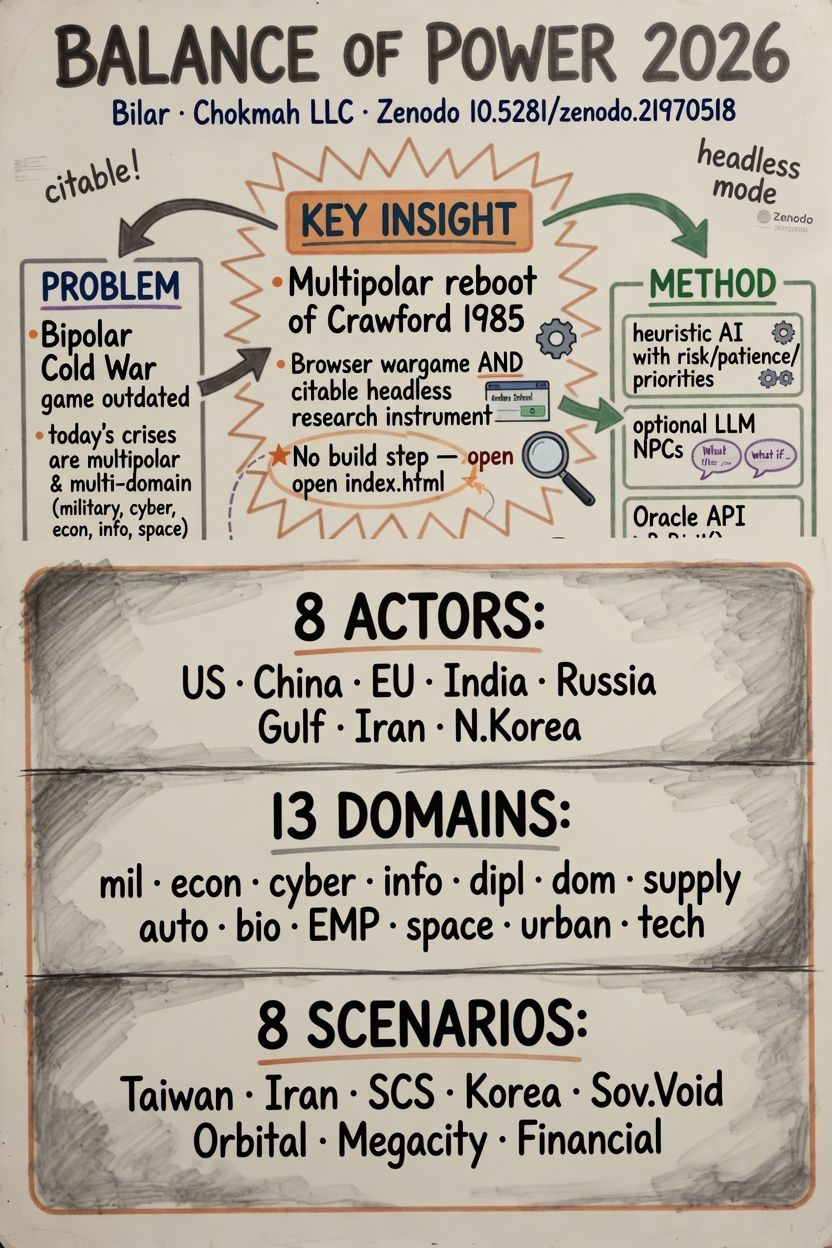
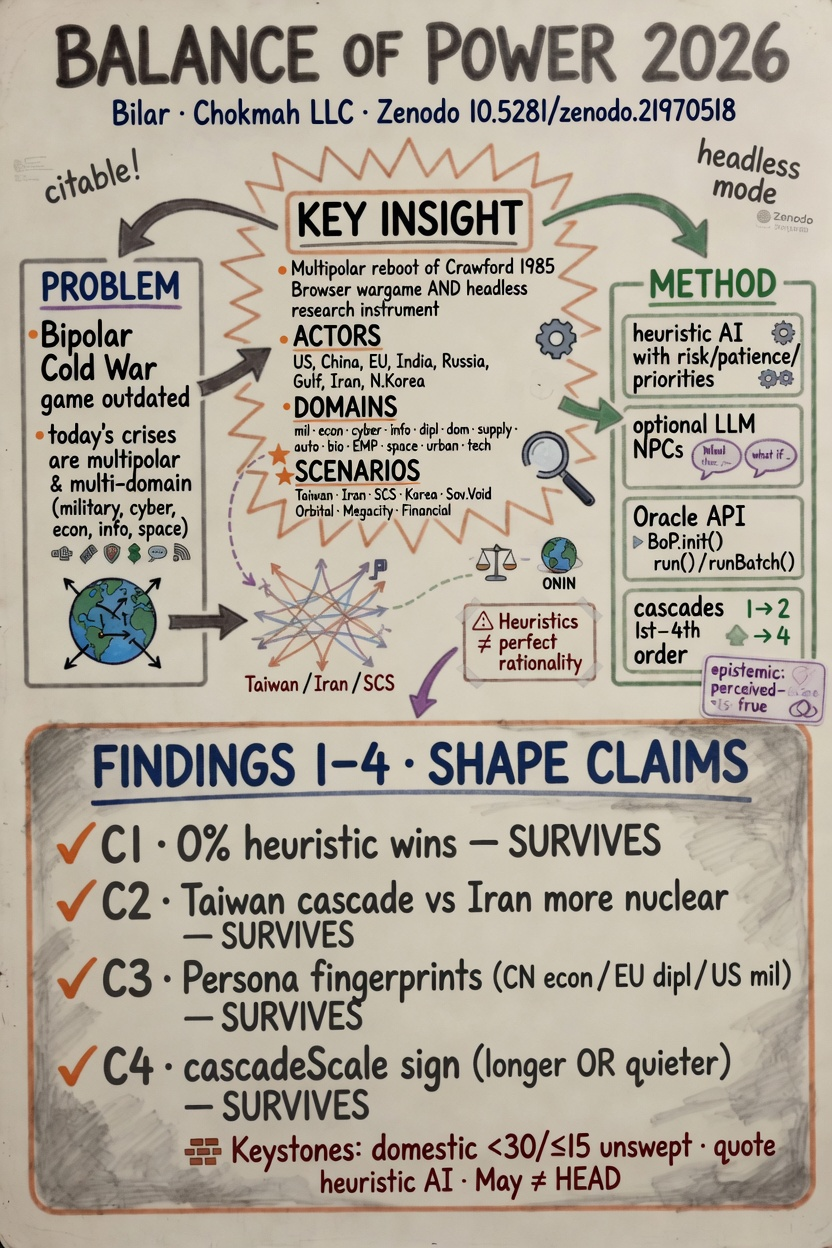
Restore full BoP sketchnote and cache-bust the page.
Replace the cropped architecture-only edit with the full poster (insight, method, findings) and corrected actor/domain/scenario lists. Append ?v=5 so browsers fetch the new PNG.

diff --git a/research/balance-of-power-2026-21970518/index.html b/research/balance-of-power-2026-21970518/index.html
@@ -10,9 +10,9 @@
     <meta property="og:url" content="https://chokmah.me/research/balance-of-power-2026-21970518/">
     <meta property="og:title" content="Balance of Power 2026 (v2.13.2)">
     <meta property="og:description" content="A turn-based multipolar crisis simulation for IR research and war studies pedagogy. Eight scenarios across thirteen domains and eight actors; browser wargame and headless Oracle API for batch runs and counterfactuals. Stylized, rule-based AI with cascade dynamics.">
-    <meta property="og:image" content="https://chokmah.me/assets/sketchnote-zenodo-21970518.png">
+    <meta property="og:image" content="https://chokmah.me/assets/sketchnote-zenodo-21970518.png?v=5">
     <meta name="twitter:card" content="summary_large_image">
-    <meta name="twitter:image" content="https://chokmah.me/assets/sketchnote-zenodo-21970518.png">
+    <meta name="twitter:image" content="https://chokmah.me/assets/sketchnote-zenodo-21970518.png?v=5">
     <meta name="citation_title" content="Balance of Power 2026">
     <meta name="citation_author" content="Bilar, Daniyel Yaacov">
     <meta name="citation_publication_date" content="2026-08-16">
@@ -48,7 +48,7 @@
     "https://doi.org/10.5281/zenodo.20370929",
     "https://github.com/chokmah-me/BoP2026"
   ],
-  "image": "https://chokmah.me/assets/sketchnote-zenodo-21970518.png",
+  "image": "https://chokmah.me/assets/sketchnote-zenodo-21970518.png?v=5",
   "author": [
     {
       "@type": "Person",
@@ -152,11 +152,11 @@
       <strong>Source:</strong> <a href="https://github.com/chokmah-me/BoP2026">github.com/chokmah-me/BoP2026</a>
     </div>
     <div class="poster">
-      <a href="https://chokmah.me/assets/sketchnote-zenodo-21970518.png">
-        <img src="https://chokmah.me/assets/sketchnote-zenodo-21970518.png" width="563" height="845"
+      <a href="https://chokmah.me/assets/sketchnote-zenodo-21970518.png?v=5">
+        <img src="https://chokmah.me/assets/sketchnote-zenodo-21970518.png?v=5" width="563" height="845"
              alt="Sketchnote for Balance of Power 2026: multipolar reboot of Crawford 1985; browser wargame and headless research instrument; Findings 1-4 shape claims C1-C4 survive; cascade and epistemic dynamics">
       </a>
-      <p class="cap">Sketchnote for v2.13.2 (CC BY 4.0). <a href="https://chokmah.me/assets/sketchnote-zenodo-21970518.png">Full-size PNG</a>.</p>
+      <p class="cap">Sketchnote for v2.13.2 (CC BY 4.0). <a href="https://chokmah.me/assets/sketchnote-zenodo-21970518.png?v=5">Full-size PNG</a>.</p>
     </div>
     <h2>Abstract</h2>
     <p>A turn-based multipolar crisis simulation for IR research and war studies pedagogy. Eight scenarios across thirteen domains and eight actors; browser wargame and headless Oracle API for batch runs and counterfactuals. Stylized, rule-based AI with cascade dynamics.</p>
